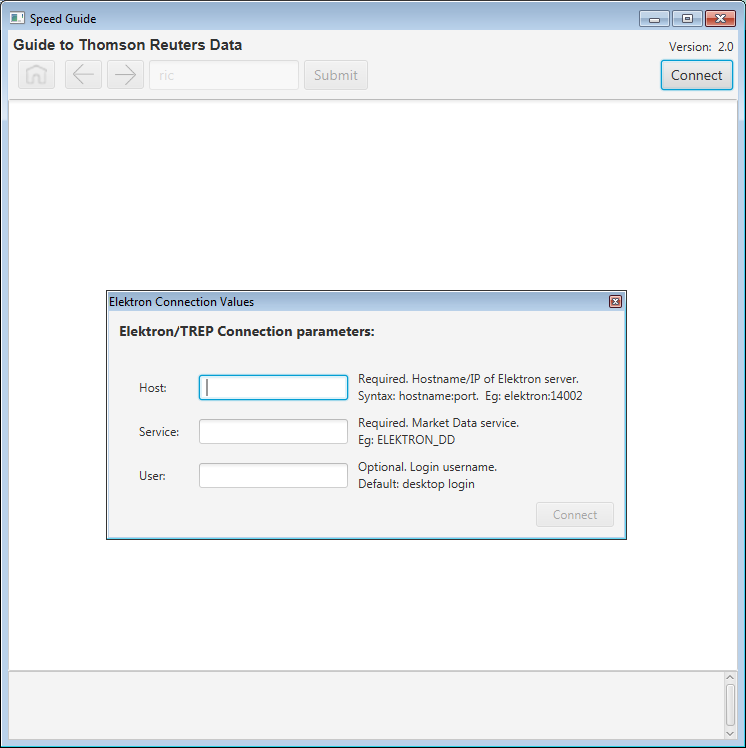
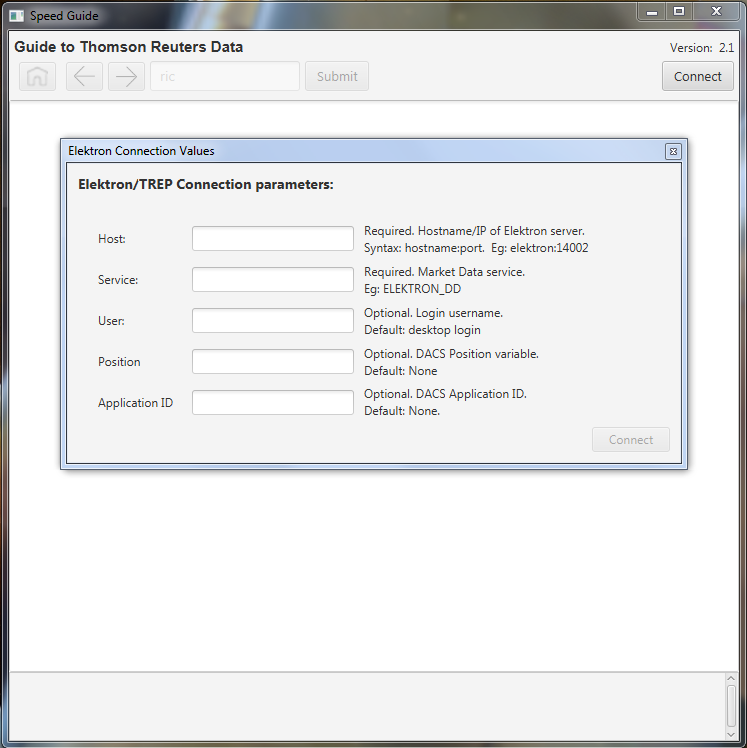
Added DACS parameters required for server authentication.

diff --git a/src/com/thomsonreuters/ema/example/gui/SpeedGuide/SpeedGuide.java b/src/com/thomsonreuters/ema/example/gui/SpeedGuide/SpeedGuide.java
@@ -22,6 +22,8 @@ public class SpeedGuide extends Application
 	final String HOST_PARAM = "host";
 	final String SERVICE_PARAM = "service";
 	final String USER_PARAM = "user";
+	final String APPID_PARAM = "appid";
+	final String POSITION_PARAM = "position";
 
 	public enum StatusIndicator
 	{
@@ -31,7 +33,7 @@ public class SpeedGuide extends Application
 	}
 
 	public static final String NEWLINE = System.getProperty("line.separator");
-	public static final String VER_CODE = "2.0";
+	public static final String VER_CODE = "2.1";
     public SpeedGuideConsumer m_consumer = new SpeedGuideConsumer();
     private boolean m_debug = false;
 
@@ -74,9 +76,12 @@ public class SpeedGuide extends Application
 	        t.start();
 
 	    	Application.Parameters params = getParameters();
+	    	
 	    	connectionController.initialize(params.getNamed().get(HOST_PARAM),
 	    						  			params.getNamed().get(SERVICE_PARAM),
 	    						  			params.getNamed().get(USER_PARAM),
+	    						  			params.getNamed().get(APPID_PARAM),
+	    						  			params.getNamed().get(POSITION_PARAM),
 	    						  			m_consumer);
 
 	        // Attempt to Connect into Elektron
@@ -123,11 +128,15 @@ public class SpeedGuide extends Application
 			System.out.println("                          Eg: ELEKTRON_AD.");
 			System.out.println("  --user=userName         User name required if authentication is enabled on server.");
 			System.out.println("                          Note: if no user name is provided, the utility will use your desktop login");
+			System.out.println("  --appid=ApplicationId   DACS Application ID if authentication is enabled on server.");
+			System.out.println("                          Application ID has no default.");
+			System.out.println("  --position=Position     DACS Position if authentication is enabled on server.");
+			System.out.println("                          Position has no default.");			
 			System.out.println("  --d[ebug]               Debug Mode.  Display verbose messages to the console");
 			System.out.println("  --h[elp]                Prints this screen"+NEWLINE);
 			System.out.println("If neither the --host nor --service is not provided, the utility will prompt the user to enter these values."+NEWLINE);
 			System.out.println("Example:");
-			System.out.println("  > SpeedGuide.exe --host=elektron:14002 --service=ELEKTRON_AD -user=testuser");
+			System.out.println("  > SpeedGuide.exe --host=elektron:14002 --service=ELEKTRON_AD --user=testuser --appid=256 --position=127.0.0.1");
     		stop();
     	}
 
@@ -142,8 +151,8 @@ public class SpeedGuide extends Application
 
 	public static void main(String[] args) throws Exception {
 		System.out.println("Java Version: " + System.getProperty("java.runtime.version") + " (" + System.getProperty("sun.arch.data.model") + "-bit)");
-		System.out.println("JavaFX Version: " + com.sun.javafx.runtime.VersionInfo.getRuntimeVersion());
-
+		System.out.println("javafx.runtime.version: " + System.getProperties().get("javafx.runtime.version"));
+		
 		launch(args);
 	}
 }

diff --git a/src/com/thomsonreuters/ema/example/gui/SpeedGuide/view/SpeedGuideConnection.java b/src/com/thomsonreuters/ema/example/gui/SpeedGuide/view/SpeedGuideConnection.java
@@ -24,16 +24,20 @@ public class SpeedGuideConnection
 {
 	class Connection
 	{
-		public void setConnection(String host, String service, String user)
+		public void setConnection(String host, String service, String user, String appId, String position)
 		{
 			_host = host==null ? "" : host.trim();
 			_service = service==null ? "" : service.trim();
 			_user = user==null ? "" : user.trim();
+			_appId = appId==null ? "" : appId.trim();
+			_position = position==null ? "" : position.trim();
 		}
 
 		public String _host;
 		public String _service;
 		public String _user;
+		public String _appId;
+		public String _position;
 	}
 
 	Stage m_dialog = new Stage();
@@ -43,6 +47,8 @@ public class SpeedGuideConnection
 	@FXML private TextField		host;
 	@FXML private TextField		service;
 	@FXML private TextField		user;
+	@FXML private TextField		appId;
+	@FXML private TextField		position;
 	@FXML private Button		connect;
 
 	// Connection/registration parameters
@@ -51,8 +57,8 @@ public class SpeedGuideConnection
 	// EMA consumer
 	SpeedGuideConsumer	m_consumer;
 
-	public void initialize(String hostname, String serviceName, String user, SpeedGuideConsumer consumer) {
-		m_connection.setConnection(hostname, serviceName, user);
+	public void initialize(String hostname, String serviceName, String user, String appId, String position, SpeedGuideConsumer consumer) {
+		m_connection.setConnection(hostname, serviceName, user, appId, position);
 		m_consumer = consumer;
 
 		// Define the main viewing scene,
@@ -71,8 +77,8 @@ public class SpeedGuideConnection
 	@FXML
 	private void clickedConnect() {
     	m_dialog.close();
-    	m_connection.setConnection(host.getText(), service.getText(), user.getText());
-    	m_consumer.defineConsumer(m_connection._host, m_connection._service, m_connection._user);
+    	m_connection.setConnection(host.getText(), service.getText(), user.getText(), appId.getText(), position.getText());
+    	m_consumer.defineConsumer(m_connection._host, m_connection._service, m_connection._user, m_connection._appId, m_connection._position);
 	}
 
 	@FXML
@@ -86,7 +92,7 @@ public class SpeedGuideConnection
 		if ( m_connection._host.isEmpty() || m_connection._service.isEmpty() )
     		connectionDialog();
     	else
-    		m_consumer.defineConsumer(m_connection._host, m_connection._service, m_connection._user);
+    		m_consumer.defineConsumer(m_connection._host, m_connection._service, m_connection._user, m_connection._appId, m_connection._position);
 	}
 
 	public void connectionDialog()
@@ -94,6 +100,8 @@ public class SpeedGuideConnection
 		host.setText(m_connection._host);
 		service.setText(m_connection._service);
 		user.setText(m_connection._user);
+		appId.setText(m_connection._appId);
+		position.setText(m_connection._position);
 
 		m_dialog.showAndWait();
     }

diff --git a/src/com/thomsonreuters/ema/example/gui/SpeedGuide/SpeedGuideConsumer.java b/src/com/thomsonreuters/ema/example/gui/SpeedGuide/SpeedGuideConsumer.java
@@ -503,6 +503,8 @@ public class SpeedGuideConsumer implements Runnable
 	private String _host;
 	private String _service;
 	private String _user;
+	private String _appId;
+	private String _position;
 	private boolean _debug = false;
 	private StatusLogHandler m_statusLogHandler;
 
@@ -544,14 +546,17 @@ public class SpeedGuideConsumer implements Runnable
 		}
 	}
 
-	public void defineConsumer(String host, String service, String user)
+	public void defineConsumer(String host, String service, String user, String appId, String position)
 	{
 		_host = host.trim();
 		_service = service.trim();
 		_user = user.trim();
+		_appId = appId.trim();
+		_position = position.trim();
 
 		String userName = (_user.isEmpty() ? "<Desktop Login>" : "user");
-        if (_debug) System.out.println("Connecting to Elektron @ host:[" + _host + "] service: [" + _service + "] User: [" + userName +"]");
+        if (_debug) System.out.println("Connecting to Elektron @ host:[" + _host + "] service: [" + _service + "] User: [" + 
+        								userName +"] applicationID: [" + _appId + "] position: [" + _position + "]");
         _launchConsumer = true;
 	}
 
@@ -574,8 +579,10 @@ public class SpeedGuideConsumer implements Runnable
 		m_viewController.updateStatus(connectStr, StatusIndicator.REQUEST);
 		OmmConsumerConfig config = EmaFactory.createOmmConsumerConfig().host(_host);
 
-		// We have to set the user in this fashion because a blank user may not default to the workstation login
+		// We have to set the user/appId/position in this fashion because a blank value may not default correctly.
 		if ( !_user.isEmpty() ) config.username(_user);
+		if ( !_appId.isEmpty() ) config.applicationId(_appId);
+		if ( !_position.isEmpty() ) config.position(_position);
 
 		_consumer  = EmaFactory.createOmmConsumer(config,
 										new OmmConsumerErrorClient() {

diff --git a/src/com/thomsonreuters/ema/example/gui/SpeedGuide/view/SpeedGuideViewController.java b/src/com/thomsonreuters/ema/example/gui/SpeedGuide/view/SpeedGuideViewController.java
@@ -22,7 +22,6 @@ import javafx.scene.control.ComboBox;
 import javafx.scene.control.IndexRange;
 import javafx.scene.control.Label;
 import javafx.scene.control.ScrollPane;
-import javafx.scene.control.SingleSelectionModel;
 import javafx.scene.control.TextArea;
 import javafx.scene.control.TextField;
 import javafx.scene.input.MouseEvent;

diff --git a/README.md b/README.md
@@ -1,13 +1,11 @@
 # Speed Guide
-Created by Platform Services GitHub tool on Mon Jan 23 2017
-
-The Speed Guide utility allows users and developers, who do not have access to **Thomson Reuters Eikon**, a simple and quick way to easily browse the content available within the Thomson Reuters Elektron service.
+The Speed Guide utility allows users and developers, who do not have access to **Refinitiv Eikon**, a simple and quick way to easily browse the content available within the Refinitiv Elektron service.  The following guide provides basic instructions to use the utility.  In addition, outlines the components and instructions to build the tool using the source code available within this project.
 
 ## Prerequisites
 
 Required software components:
 
-* [Elektron Message API](https://developers.thomsonreuters.com/elektron/elektron-sdk-java) (1.0.8 or greater) - Thomson Reuters interface to the Elektron Market Data environment
+* [Elektron Message API](https://developers.refinitiv.com/elektron/elektron-sdk-java) (1.2 or greater) - Refinitiv interface to the Elektron Market Data environment
 * [JDK 8](http://www.oracle.com/technetwork/java/javase/downloads/jdk8-downloads-2133151.html) - Java Development Kit - version 8
 
 Optional software components:
@@ -21,7 +19,7 @@ Optional software components:
 
 This package includes some convenient files which will enable the developer to quickly build and run the Speed Guide utility.  To build, the package includes the **_build.xml_** Ant file.  Alternatively, the scripts (**_build.bat_**/**_build.ksh_**) are provided.  To run, use the convenient scripts (**_run.bat_**/ **_run.ksh_**).  
 
-Within each script contains the following prerequsite section:
+Within each script contains the following prerequisite section:
 
 ```
 The following batch file assumes the following environment:
@@ -35,25 +33,24 @@ Once setup, you can build and run the utility.
 
 # Overview
 
-The Speed Guide utility allows users and developers who do not have access to the Eikon application to browse the contents available from Elektron.
+The Speed Guide utility allows users and developers who do not have access to the Eikon application to browse content available from Elektron.
 
-When building Elektron Market Data consumers, developers often need a list of RICs (Reuters Instrument Codes) for a certain market, exchange, or instrument type. The Speed Guide utility is a tool to discover those RICs.  In addition, provides a simple way to easily navigate and provide a better understanding of the organization of the data which includes more complex structures such as Option Chains, Indices, etc.
+When building Elektron Market Data consumers, developers often need a list of RICs (Reuters Instrument Codes) for certain market, exchange, or instrument types. The Speed Guide utility is a tool to discover those RICs.  In addition, provides a simple way to easily navigate and provide a better understanding of the organization of the data which includes more complex structures such as Option Chains, Indices, etc.
 
-The utility registers for Snapshot only data content (i.e, non-streaming).
+The Speed Guide tool registers for Snapshot only data content (i.e, non-streaming).
 
 ## Utility download
 
-The executable program and readme is available for Download within the [TR Developer Platform](https://developers.thomsonreuters.com/system/files/SpeedGuide_2.0.zip).
+The executable program and Readme is available for Download within the [Refinitiv Developer Platform](https://developers.refinitiv.com/system/files/SpeedGuide_2.0.zip).
 
 ## Running the Utility
 
-The Speed Guide application must connect to an Elektron system/TREP (Thomson Reuters Enterprise Platform) or via Elektron Connect.
+The Speed Guide application must connect to an Elektron system/TREP (Thomson Reuters Enterprise Platform).
 
 The package includes 2 components offering multiple ways to launch the tool.  Packaged are:
 
   * **SpeedGuide.jar**: An executable JAR available for both Windows and Linux
   * **SpeedGuide.exe**: A windows wrapper
-	
 ### Launching the tool by double clicking on the icon (Windows):
 
 Double-clicking either the _.jar_ or _.exe_ file will not pass any required parameters to the application.  As such, the application will present a [Connection Dialog](#usage) requesting for these connection parameters.  In either case, no console is involved thus no additional messages, such as log messages, can be viewed.
@@ -71,9 +68,9 @@ At the console, you can pass command-line parameters to the utility:
 * #### Launching the executable JAR
 
   \> **java -jar SpeedGuide.jar [options]**
-    
+  
     When launching the executable JAR, users optionally specify command-line options and have the opportunity to see the output on the console.
-		
+	
 * #### Launching the windows wrapper EXE
   
   \> **SpeedGuide.exe [options]**
@@ -91,6 +88,10 @@ At the console, you can pass command-line parameters to the utility:
                             Eg: ELEKTRON_AD.
     --user=userName         User name required if authentication is enabled on server.
                             Note: if no user name is provided, the utility will use your desktop login
+    --appid=ApplicationId   DACS Application ID if authentication is enabled on server.
+                            Application ID has no default.
+    --position=Position     DACS Position if authentication is enabled on server.
+                            Position has no default.
     --d[ebug]               Debug Mode.  Display verbose messages to the console
     --h[elp]                Prints the options screen
 If neither the --host nor --service is provided, the utility will **prompt the user** to enter these values.
@@ -122,9 +123,9 @@ The top navigation menu provides:
 * A _Next_ button to go to next page (if it exists).
 * An input text field that displays the RIC for the current page, and allows entering a RIC to request.
 * A _Connect_ button when no connection has been established
-* An _Available Services_ dropdown providing the list of services available within the connected server
+* An _Available Services_ drop-down providing the list of services available within the connected server
 
-During normal operation, or possibly at startup, the _Status Pane_ will highlight issues appropriately.  In the case where the user specifies an incorrect service, the _Available Services_ dropdown will give them the opportunity to select a valid one.
+During normal operation, or possibly at startup, the _Status Pane_ will highlight issues appropriately.  In the case where the user specifies an incorrect service, the _Available Services_ drop-down will give them the opportunity to select a valid one.
 
 ![main](images/invalid.png)
 
@@ -136,26 +137,26 @@ For example:
 
 ![fieldlist](images/fieldList.png)
 
-Although not presented in a user-friendly display form, the native list of fields not only provides the user the ability to research all available fields for a given asset, but also the opportunity to better understand the structure of Thomson Reuters Data. 
+Although not presented in a user-friendly display form, the native list of fields not only provides the user the ability to research all available fields for a given asset, but also the opportunity to better understand the structure of Refinitiv Data. 
 
 #### Chains
 
-Navigating through the guide, you will likely come across some more complex structures.  For example, some market data elements, such as the Nasdaq Top 25, are represented as a collection of elements, or also referred to as a **_Chain_**.  A _Chain_ contains a collection of elements represented within a preset number of underlying fields within a market data record.  In the case of the Nasdaq Top 25, the underlying elements represent the Top 25 trading equities.  Because a Chain is represented within a simple _MarketPrice_ structure containing a preset number of fields, the structure offers the ability to pull up the next link within this collection.
+Navigating through the guide, you will likely come across some more complex data structures.  For example, some market data elements, such as the Nasdaq Top 25, are represented as a collection of elements, or also referred to as a **_Chain_**.  A _Chain_ contains a collection of elements represented within a preset number of underlying fields within a market data record.  In the case of the Nasdaq Top 25, the underlying elements represent the Top 25 trading equities.  Because a Chain is represented within a simple _MarketPrice_ structure containing a preset number of fields, the structure offers the ability to pull up the next link within this collection.
 
 To demonstrate, we manually entered the Nasdaq Top 25 index _.AV.O_:
 
 ![Chain](images/Chain.png)
 
-We can see from above, the record contains a preset number of elements (1-14) and the ability to pull up the next group of elements within the _next link_.  Feel free to navigate through the guide to discover many other assets and data elements offered by Thomson Reuters.
+We can see from above, the record contains a preset number of elements (1-14) and the ability to pull up the next group of elements within the _next link_.  Feel free to navigate through the guide to discover many other assets and data elements offered by Refinitiv.
 
 # Solution Code
 
-The utility was developed using the [Elektron SDK Java API](https://developers.thomsonreuters.com/elektron/elektron-sdk-java) and Java's GUI library Java 8 - JavaFx.
+The utility was developed using the [Elektron SDK Java API](https://developers.refinitiv.com/elektron/elektron-sdk-java) and Java's GUI library Java 8 - JavaFx.
 
 
 ## Built With
 
-* [Elektron Message API](https://developers.thomsonreuters.com/elektron/elektron-sdk-java)
+* [Elektron Message API](https://developers.refinitiv.com/elektron/elektron-sdk-java)
 * [JDK 8](http://www.oracle.com/technetwork/java/javase/downloads/jdk8-downloads-2133151.html)
 * [Eclipse](https://www.eclipse.org/efxclipse/install.html) - IDE for Java development (tested)
 
@@ -167,6 +168,7 @@ Please read [CONTRIBUTING.md](https://gist.github.com/PurpleBooth/b24679402957c6
 
 * **Susana Chang** - Release 1.1.  *Initial work*
 * **Nick Zincone** - Release 2.0.  *Additional error checking/Utilized JavaFX Scene Builder to generate FXML*
+* **Nick Zincone** - Release 2.1.  Added DACS fields required for login to Elektron.
 
 ## License
 
